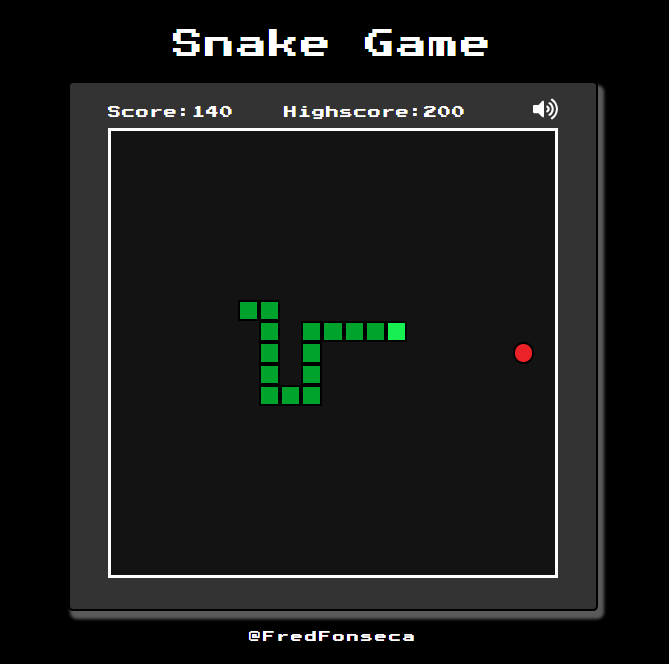
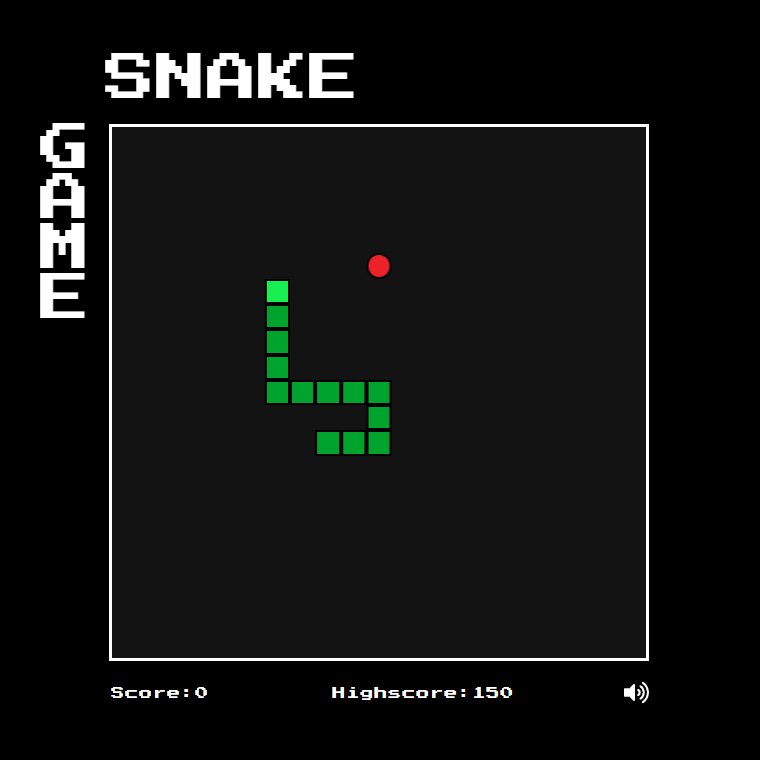
layout update

diff --git a/css/style.css b/css/style.css
@@ -7,7 +7,7 @@
 }
 
 :root {
-  --board-space: 450px;
+  --board-space: 70vh;
   --dark--color: #000;
   --light--color: #fff;
 }
@@ -17,7 +17,6 @@ body {
   width: 100vw;
   background-color: var(--dark--color);
   display: flex;
-  flex-direction: column;
   align-items: center;
   justify-content: space-evenly;
   font-family: "Press Start 2P", cursive;
@@ -56,9 +55,10 @@ body {
 }
 
 .dashboard {
-  width: 100%;
+  display: flex;
+  justify-content: space-between;
+  width: var(--board-space);
   height: 25px;
-  padding-left: 50px;
 }
 
 .dashboard .score,
@@ -94,12 +94,12 @@ body {
   display: grid;
   grid-template-rows: repeat(21, 1fr);
   grid-template-columns: repeat(21, 1fr);
-  margin: 20px;
+  margin: 20px 71px 20px 20px;
 }
 
 .starter,
 .gameover {
-  transform: translate(-45%,-50%);
+  transform: translate(-50%,-50%);
   position: absolute;
   top: 50%;
   left: 50%;

diff --git a/js/game.js b/js/game.js
@@ -34,8 +34,11 @@ const gameOverScreen = document.querySelector(".gameover");
 function gameAnimationUpdate(curTime) {
   // GET GAME-OVER ALERT
   if (gameOver) {
-    location.reload();
-    alert("You lost the game...");
+    moveSound.muted = true;
+    if (confirm("You lost the game... Press Ok to restart")) {
+      window.location.reload();
+    }
+    return;
   }
 
   window.requestAnimationFrame(gameAnimationUpdate);
@@ -55,11 +58,13 @@ function gameAnimationUpdate(curTime) {
 window.addEventListener("load", () => {
   updateScore();
   audioState();
+  moveSound.muted = true;
 });
 
 window.addEventListener("keydown", (event) => {
   if (event.key === "Enter") {
     starter.classList.add("animate");
+    moveSound.muted = false;
     window.requestAnimationFrame(gameAnimationUpdate);
   }
 });
